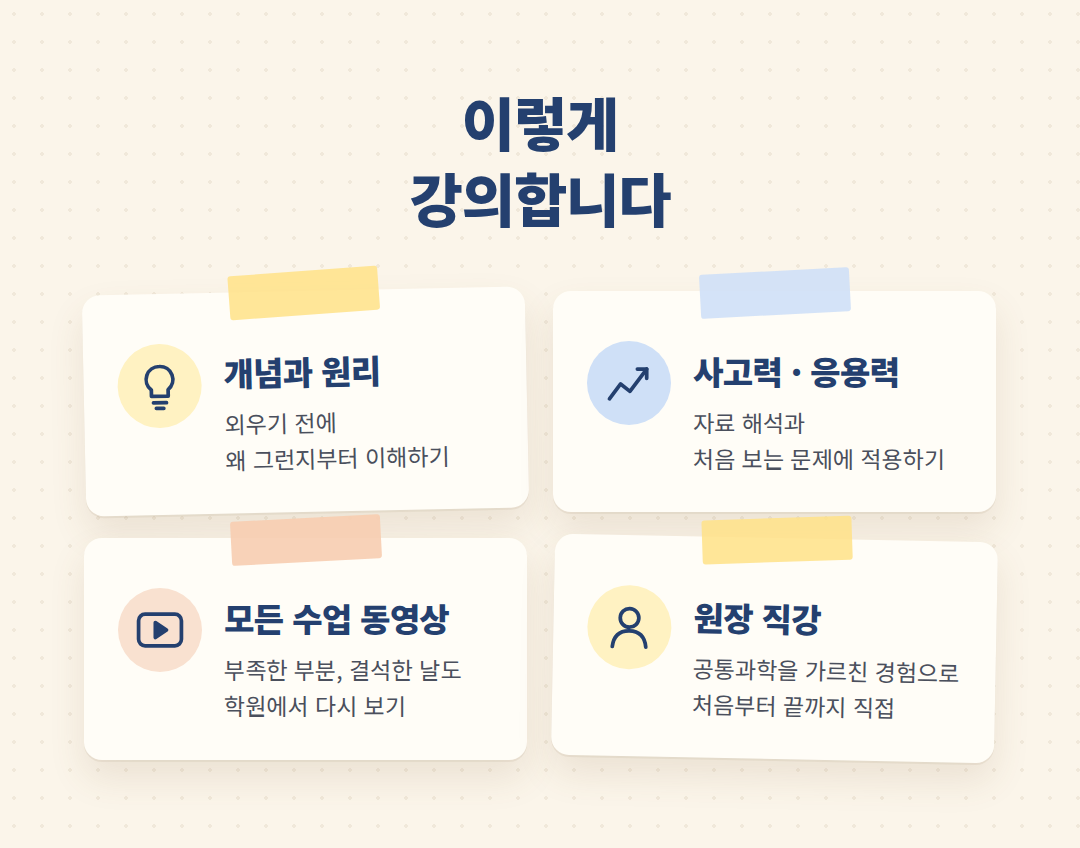
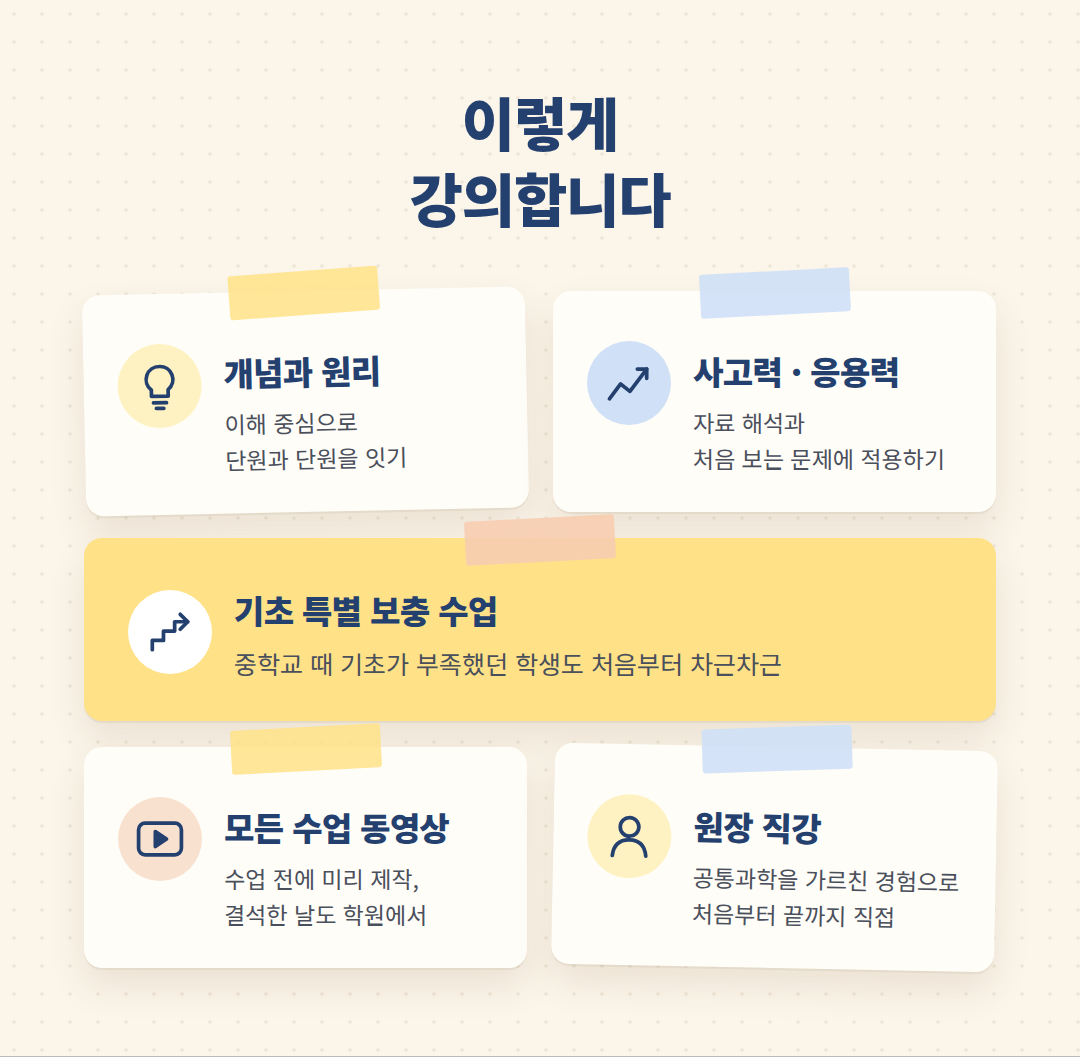
marketing: blog-16 정렬을 섞고 여백을 늘림, 특별 보충 수업 추가
- 인사·핵심 결론·무료 수강·오시는 길·맺음말은 가운데, 설명 문단은 왼쪽
- 소제목 선을 글 폭만큼 길게, 선과 글·문단 사이 여백 늘림(서식 복사에 빈 줄)
- '이렇게 강의합니다'에 기초 특별 보충 수업 추가, 동영상은 '수업 전에 제작'
- 그림 05 다섯 칸으로 다시 그림

Claude-Session: https://claude.ai/code/session_01WC7EVNFFJZDdwaC3HYBAmj

diff --git a/parkchan-science/marketing/blog-16/kit.html b/parkchan-science/marketing/blog-16/kit.html
@@ -24,16 +24,17 @@ textarea{width:100%;box-sizing:border-box;min-height:160px;border:1px solid var(
 .post{text-align:left}
 .post .em{color:var(--em)}
 .post b{color:var(--ink)}.post .em{color:var(--em)}
-.tw{overflow-x:auto;margin:0 0 22px}.post table{border-collapse:collapse;width:100%;font-size:14.5px;line-height:1.6;color:var(--body)}
+.tw{overflow-x:auto;margin:0 0 30px}.post table{border-collapse:collapse;width:100%;font-size:14.5px;line-height:1.6;color:var(--body)}
 .post th,.post td{border:1px solid var(--line);padding:8px 10px;text-align:left;vertical-align:top}
 .post th{background:var(--soft);color:var(--ink);font-weight:700}.post td:first-child{font-weight:700;color:var(--ink);white-space:nowrap}
 .post tr.now td{background:var(--soft);font-weight:700}.post tr.now td:first-child{color:var(--em)}
 #rich{position:absolute;left:-9999px;top:0;width:600px;background:#fff;color:#333}
-.post p{font-size:16px;color:var(--body);margin:0 0 22px}
-.post blockquote{text-align:center;margin:32px auto 18px;max-width:420px;font-family:'Noto Serif KR',serif;font-size:19px;font-weight:700;color:var(--navy);border-top:1px solid var(--gold);border-bottom:1px solid var(--gold);padding:14px 8px}
+.post p{font-size:16px;line-height:1.9;color:var(--body);margin:0 0 28px}
+.post p.c{text-align:center}
+.post blockquote{text-align:center;margin:52px 0 34px;font-family:'Noto Serif KR',serif;font-size:19px;font-weight:700;color:var(--navy);border-top:1px solid var(--gold);border-bottom:1px solid var(--gold);padding:20px 8px}
 .post figure{margin:0 0 26px}.post img{width:100%;max-width:100%;height:auto;display:block}
 .post figcaption{font-size:12px;color:var(--muted);margin-top:6px}
-.post .fine{font-size:10px;line-height:1.6;color:var(--faint);margin:30px 0 0;padding-top:14px;border-top:1px solid var(--line);font-variant-numeric:tabular-nums}
+.post .fine{text-align:center;font-size:10px;line-height:1.6;color:var(--faint);margin:30px 0 0;padding-top:14px;border-top:1px solid var(--line);font-variant-numeric:tabular-nums}
 .place{font-size:13px;color:var(--muted);border:1px dashed var(--line);padding:16px;margin:0 0 22px}
 mark{background:var(--soft);color:var(--ink);outline:1px solid var(--gold);border-radius:2px;padding:0 3px}
 .nw{white-space:nowrap}
@@ -46,10 +47,13 @@ mark{background:var(--soft);color:var(--ink);outline:1px solid var(--gold);borde
 <details style="margin-top:10px"><summary style="font-size:14px;color:var(--muted);cursor:pointer">글자만 복사 (서식 없음)</summary><textarea id="bodyTxt" readonly style="margin-top:8px">안녕하십니까.
 대구 월성동 박찬 통합과학 학원입니다.
 
-현재 중학교 3학년 자녀를 두신 학부모님께 인사드립니다.
+현재 중학교 3학년 자녀를 두신
+학부모님께 인사드립니다.
 
-내년 봄 고등학교에 올라가면, 학생들은 처음으로 &#x27;통합과학&#x27;을 만나게 됩니다.
-그 첫걸음을 차근차근 준비하는 고1 예비반을 안내해 드립니다.
+내년 봄 고등학교에 올라가면
+학생들은 처음으로 &#x27;통합과학&#x27;을 만나게 됩니다.
+그 첫걸음을 차근차근 준비하는
+고1 예비반을 안내해 드립니다.
 
 【사진 1 · 01_greeting.png】
 
@@ -61,8 +65,10 @@ mark{background:var(--soft);color:var(--ink);outline:1px solid var(--gold);borde
 대상: 고1 예비 (현 중3)
 기간: 2027년 2월 28일까지
 
-고등학교 통합과학은 통합과학 1과 통합과학 2, 두 권입니다.
-이 두 권을 3월 입학 전까지 확실히 지도하겠습니다.
+고등학교 통합과학은
+통합과학 1과 통합과학 2, 두 권입니다.
+이 두 권을 3월 입학 전까지
+확실히 지도하겠습니다.
 
 【사진 2 · 02_period.png】
 
@@ -73,45 +79,55 @@ mark{background:var(--soft);color:var(--ink);outline:1px solid var(--gold);borde
 주 1회 수업에도 나름의 장점이 있을 것입니다.
 다만 저는 주 2회 수업으로 조금 더 여유로운 시간 속에서 다양한 지식을 전하고 문제 풀이를 하며, 더 큰 학습 효과를 거두고자 합니다.
 
-그래서 시간의 여유가 있는 고1 예비반 때만 일주일에 두 번 수업합니다.
-고등학교에 올라가면 고1 내신반과 고3 수능반은 일주일에 한 번밖에 하지 못합니다.
+그래서 시간의 여유가 있는
+고1 예비반 때만
+일주일에 두 번 수업합니다.
+
+고등학교에 올라가면
+고1 내신반과 고3 수능반은
+일주일에 한 번밖에 하지 못합니다.
 
 【사진 3 · 03_twice.png】
 
 【소제목 · 인용구】 고등학교 과학, 이렇게 바뀝니다
 
-2022 개정 교육과정에 따라 고1 학생은 모두 통합과학을 배웁니다.
-고교 내신은 2025년 고1부터 5등급제로 바뀌었습니다.
-그리고 2028학년도 수능부터 과학탐구는 통합과학 한 과목입니다.
-지금 중3 학생들이 치를 수능도 현재 발표 기준으로 같은 체제입니다.
+· 교육과정 — 2022 개정에 따라 고1 학생은 모두 통합과학을 배웁니다.
+· 내신 — 2025년 고1부터 5등급제로 바뀌었습니다.
+· 수능 — 2028학년도부터 과학탐구는 통합과학 한 과목입니다. 지금 중3 학생들이 치를 수능도 현재 발표 기준으로 같은 체제입니다.
 
-고1 첫 내신이 고등학교 3년의 출발점입니다.
+고1 첫 내신이
+고등학교 3년의 출발점입니다.
 
 【사진 4 · 04_change.png】
 
 【소제목 · 인용구】 이렇게 강의합니다
 
 ① 개념과 원리 위주의 이해 중심 강의
-외우기 전에 &#x27;왜 그런지&#x27;부터 설명합니다.
 낯선 과학 용어도 뜻을 풀어, 단원과 단원이 자연스럽게 이어지도록 가르칩니다.
 
 ② 사고력 · 응용력 향상을 돕는 문제 풀이
-개념을 배운 뒤에는 자료를 해석하고, 처음 보는 상황에 개념을 적용하는 문제를 함께 풉니다.
-고1 내신을 넘어 고3 수능까지 이어지는 생각하는 힘을 기릅니다.
+자료를 해석하고, 처음 보는 상황에 개념을 적용하는 문제를 함께 풉니다.
+고3 수능까지 이어지는 생각하는 힘을 기릅니다.
 
-③ 모든 수업은 동영상으로
-모든 수업은 동영상으로 제작되어 있습니다.
+③ 기초가 부족한 학생을 위한 특별 보충 수업
+중학교 때 과학 기초가 부족했거나 성적이 아쉬웠던 학생을 위해 특별 보충 수업을 준비해 두었습니다.
+처음부터 차근차근 따라올 수 있도록 돕겠습니다.
+
+④ 모든 수업은 동영상으로
+모든 수업은 수업 전에 동영상으로 제작되어 있습니다.
 강의 후 부족하다고 느낀 부분이나 결석한 날의 수업도 학원에서 다시 보며 충분히 이해할 수 있습니다.
 
-④ 원장 직강
+⑤ 원장 직강
 통합과학의 전신인 공통과학을 가르쳤던 경험과 오랜 입시 지도의 경험으로, 처음부터 끝까지 제가 직접 가르치고 상담합니다.
 
 【사진 5 · 05_class.png】
 
 【소제목 · 인용구】 하나로 이어지는 네 단계 과정
 
-박찬 통합과학 학원의 반은 따로 떨어져 있지 않습니다.
-기초 → 고등학교 내신 → 사고력·응용력 → 고3 수능까지, 하나의 흐름으로 이어집니다.
+박찬 통합과학 학원의 반은
+따로 떨어져 있지 않습니다.
+기초 → 내신 → 사고력·응용력 → 수능
+하나의 흐름으로 이어집니다.
 
 · 중등부반
   현 중2 (내년 중3) · 2027년 1월 개강
@@ -132,8 +148,10 @@ mark{background:var(--soft);color:var(--ink);outline:1px solid var(--gold);borde
 
 【소제목 · 인용구】 일주일 무료 수강
 
-먼저 일주일 들어 보시고 등록을 결정하셔도 됩니다.
-수업이 아이에게 맞는지 직접 확인해 보십시오.
+먼저 일주일 들어 보시고
+등록을 결정하셔도 됩니다.
+수업이 아이에게 맞는지
+직접 확인해 보십시오.
 
 ① 상담 전화 또는 내원
 ② 수강 예약
@@ -144,13 +162,16 @@ mark{background:var(--soft);color:var(--ink);outline:1px solid var(--gold);borde
 
 【소제목 · 인용구】 오시는 길
 
-대구 달서구 조암로 25, 그루빌딩 501호
-(월성 CGV 옆)
+대구 달서구 조암로 25
+그루빌딩 501호 (월성 CGV 옆)
+
 상담 문의 053-213-3577
 
 【장소 · 네이버 지도 주소 등록이 끝나면 넣기 — 지금은 이 줄만 지우기】
 
-처음 만나는 통합과학, 아이가 자신 있게 시작할 수 있도록 정성껏 준비하겠습니다.
+처음 만나는 통합과학,
+아이가 자신 있게 시작할 수 있도록
+정성껏 준비하겠습니다.
 편하게 전화 주십시오.
 
 감사합니다.
@@ -160,93 +181,126 @@ mark{background:var(--soft);color:var(--ink);outline:1px solid var(--gold);borde
 【작은 글씨】남교입 제2019-115호 · 교습비(월) / 총 교습시간
 【작은 글씨】중등부 21만 원 / 1,042분 · 26만 7,000원 / 1,303분
 【작은 글씨】고등부 22만 원 / 912분 · 31만 7,000원 / 1,303분</textarea><button class="cp big" data-copy="bodyTxt">글자만 복사</button></details>
-<div id="rich" aria-hidden="true"><p style="margin:0 0 16px;line-height:1.8">안녕하십니까.<br>대구 월성동 박찬 통합과학 학원입니다.</p>
-<p style="margin:0 0 16px;line-height:1.8">현재 중학교 3학년 자녀를 두신 학부모님께 인사드립니다.</p>
-<p style="margin:0 0 16px;line-height:1.8">내년 봄 고등학교에 올라가면, 학생들은 처음으로 <b>&#x27;통합과학&#x27;</b>을 만나게 됩니다.<br>그 첫걸음을 차근차근 준비하는 <b style="color:#2F5FC4">고1 예비반</b>을 안내해 드립니다.</p>
-<p style="margin:0 0 16px;line-height:1.8">【사진 1 · 01_greeting.png】</p>
-<p style="margin:0 0 16px;line-height:1.8">【소제목 · 인용구】 <b>3월 입학 전, 통합과학 1·2를 확실히 지도하겠습니다</b></p>
+<div id="rich" aria-hidden="true"><p style="margin:0;line-height:1.9;text-align:center;">안녕하십니까.<br>대구 월성동 박찬 통합과학 학원입니다.</p>
+<p><br></p>
+<p style="margin:0;line-height:1.9;text-align:center;">현재 중학교 3학년 자녀를 두신<br>학부모님께 인사드립니다.</p>
+<p><br></p>
+<p style="margin:0;line-height:1.9;text-align:center;">내년 봄 고등학교에 올라가면<br>학생들은 처음으로 <b>&#x27;통합과학&#x27;</b>을 만나게 됩니다.<br>그 첫걸음을 차근차근 준비하는<br><b style="color:#2F5FC4">고1 예비반</b>을 안내해 드립니다.</p>
+<p><br></p>
+<p style="margin:0;line-height:1.9;text-align:center;">【사진 1 · 01_greeting.png】</p><p><br></p>
+<p><br></p><p style="margin:0;line-height:1.9;text-align:center;">【소제목 · 인용구】 <b>3월 입학 전, 통합과학 1·2를 확실히 지도하겠습니다</b></p><p><br></p>
 <table style="border-collapse:collapse;width:100%;margin:0 0 18px;font-size:15px;line-height:1.6"><tr><td style="border:1px solid #D9CFBD;padding:8px 10px;background:#FFFFFF;vertical-align:top;font-weight:700;">화금반</td><td style="border:1px solid #D9CFBD;padding:8px 10px;background:#FFFFFF;vertical-align:top;"><b>2026년 11월 3일(화)</b> 개강</td></tr><tr><td style="border:1px solid #D9CFBD;padding:8px 10px;background:#FFFFFF;vertical-align:top;font-weight:700;">수토반</td><td style="border:1px solid #D9CFBD;padding:8px 10px;background:#FFFFFF;vertical-align:top;"><b>2026년 11월 4일(수)</b> 개강</td></tr><tr><td style="border:1px solid #D9CFBD;padding:8px 10px;background:#FFFFFF;vertical-align:top;font-weight:700;">수업 시작</td><td style="border:1px solid #D9CFBD;padding:8px 10px;background:#FFFFFF;vertical-align:top;">오후 5시 30분 (주 2회)</td></tr><tr><td style="border:1px solid #D9CFBD;padding:8px 10px;background:#FFFFFF;vertical-align:top;font-weight:700;">대상</td><td style="border:1px solid #D9CFBD;padding:8px 10px;background:#FFFFFF;vertical-align:top;">고1 예비 (현 중3)</td></tr><tr><td style="border:1px solid #D9CFBD;padding:8px 10px;background:#FFFFFF;vertical-align:top;font-weight:700;">기간</td><td style="border:1px solid #D9CFBD;padding:8px 10px;background:#FFFFFF;vertical-align:top;">2027년 2월 28일까지</td></tr></table>
-<p style="margin:0 0 16px;line-height:1.8">고등학교 통합과학은 <b>통합과학 1과 통합과학 2, 두 권</b>입니다.<br>이 두 권을 <b style="color:#2F5FC4">3월 입학 전까지 확실히 지도하겠습니다.</b></p>
-<p style="margin:0 0 16px;line-height:1.8">【사진 2 · 02_period.png】</p>
-<p style="margin:0 0 16px;line-height:1.8">【소제목 · 인용구】 <b>왜 예비반은 주 2회일까요</b></p>
-<p style="margin:0 0 16px;line-height:1.8">평소 강의를 해 보면, 시간의 여유가 많을수록 더 상세히 설명하고 더 많은 문제를 함께 풀 수 있었습니다.</p>
-<p style="margin:0 0 16px;line-height:1.8">주 1회 수업에도 나름의 장점이 있을 것입니다.<br>다만 저는 주 2회 수업으로 조금 더 여유로운 시간 속에서 <b>다양한 지식을 전하고 문제 풀이를 하며, 더 큰 학습 효과</b>를 거두고자 합니다.</p>
-<p style="margin:0 0 16px;line-height:1.8">그래서 시간의 여유가 있는 <b style="color:#2F5FC4">고1 예비반 때만 일주일에 두 번</b> 수업합니다.<br>고등학교에 올라가면 고1 내신반과 고3 수능반은 일주일에 한 번밖에 하지 못합니다.</p>
-<p style="margin:0 0 16px;line-height:1.8">【사진 3 · 03_twice.png】</p>
-<p style="margin:0 0 16px;line-height:1.8">【소제목 · 인용구】 <b>고등학교 과학, 이렇게 바뀝니다</b></p>
-<p style="margin:0 0 16px;line-height:1.8">2022 개정 교육과정에 따라 <b>고1 학생은 모두 통합과학</b>을 배웁니다.<br>고교 내신은 2025년 고1부터 <b>5등급제</b>로 바뀌었습니다.<br>그리고 <b>2028학년도 수능부터 과학탐구는 통합과학 한 과목</b>입니다.<br>지금 중3 학생들이 치를 수능도 현재 발표 기준으로 같은 체제입니다.</p>
-<p style="margin:0 0 16px;line-height:1.8"><b style="color:#2F5FC4">고1 첫 내신이 고등학교 3년의 출발점입니다.</b></p>
-<p style="margin:0 0 16px;line-height:1.8">【사진 4 · 04_change.png】</p>
-<p style="margin:0 0 16px;line-height:1.8">【소제목 · 인용구】 <b>이렇게 강의합니다</b></p>
-<p style="margin:0 0 16px;line-height:1.8"><b style="color:#2F5FC4">① 개념과 원리 위주의 이해 중심 강의</b><br>외우기 전에 &#x27;왜 그런지&#x27;부터 설명합니다.<br>낯선 과학 용어도 뜻을 풀어, 단원과 단원이 자연스럽게 이어지도록 가르칩니다.</p>
-<p style="margin:0 0 16px;line-height:1.8"><b style="color:#2F5FC4">② 사고력 · 응용력 향상을 돕는 문제 풀이</b><br>개념을 배운 뒤에는 자료를 해석하고, 처음 보는 상황에 개념을 적용하는 문제를 함께 풉니다.<br>고1 내신을 넘어 <b>고3 수능까지 이어지는 생각하는 힘</b>을 기릅니다.</p>
-<p style="margin:0 0 16px;line-height:1.8"><b style="color:#2F5FC4">③ 모든 수업은 동영상으로</b><br>모든 수업은 동영상으로 제작되어 있습니다.<br>강의 후 부족하다고 느낀 부분이나 결석한 날의 수업도 <b>학원에서 다시 보며</b> 충분히 이해할 수 있습니다.</p>
-<p style="margin:0 0 16px;line-height:1.8"><b style="color:#2F5FC4">④ 원장 직강</b><br>통합과학의 전신인 <b>공통과학을 가르쳤던 경험</b>과 오랜 입시 지도의 경험으로, 처음부터 끝까지 제가 직접 가르치고 상담합니다.</p>
-<p style="margin:0 0 16px;line-height:1.8">【사진 5 · 05_class.png】</p>
-<p style="margin:0 0 16px;line-height:1.8">【소제목 · 인용구】 <b>하나로 이어지는 네 단계 과정</b></p>
-<p style="margin:0 0 16px;line-height:1.8">박찬 통합과학 학원의 반은 따로 떨어져 있지 않습니다.<br><b>기초 → 고등학교 내신 → 사고력·응용력 → 고3 수능</b>까지, 하나의 흐름으로 이어집니다.</p>
+<p><br></p>
+<p style="margin:0;line-height:1.9;text-align:center;">고등학교 통합과학은<br><b>통합과학 1과 통합과학 2, 두 권</b>입니다.<br><b style="color:#2F5FC4">이 두 권을 3월 입학 전까지</b><br><b style="color:#2F5FC4">확실히 지도하겠습니다.</b></p>
+<p><br></p>
+<p style="margin:0;line-height:1.9;text-align:center;">【사진 2 · 02_period.png】</p><p><br></p>
+<p><br></p><p style="margin:0;line-height:1.9;text-align:center;">【소제목 · 인용구】 <b>왜 예비반은 주 2회일까요</b></p><p><br></p>
+<p style="margin:0;line-height:1.9;">평소 강의를 해 보면, 시간의 여유가 많을수록 더 상세히 설명하고 더 많은 문제를 함께 풀 수 있었습니다.</p>
+<p><br></p>
+<p style="margin:0;line-height:1.9;">주 1회 수업에도 나름의 장점이 있을 것입니다.<br>다만 저는 주 2회 수업으로 조금 더 여유로운 시간 속에서 <b>다양한 지식을 전하고 문제 풀이를 하며, 더 큰 학습 효과</b>를 거두고자 합니다.</p>
+<p><br></p>
+<p style="margin:0;line-height:1.9;text-align:center;">그래서 시간의 여유가 있는<br><b style="color:#2F5FC4">고1 예비반 때만</b><br><b style="color:#2F5FC4">일주일에 두 번</b> 수업합니다.</p>
+<p><br></p>
+<p style="margin:0;line-height:1.9;text-align:center;">고등학교에 올라가면<br>고1 내신반과 고3 수능반은<br>일주일에 한 번밖에 하지 못합니다.</p>
+<p><br></p>
+<p style="margin:0;line-height:1.9;text-align:center;">【사진 3 · 03_twice.png】</p><p><br></p>
+<p><br></p><p style="margin:0;line-height:1.9;text-align:center;">【소제목 · 인용구】 <b>고등학교 과학, 이렇게 바뀝니다</b></p><p><br></p>
+<p style="margin:0;line-height:1.9;">· 교육과정 — 2022 개정에 따라 <b>고1 학생은 모두 통합과학</b>을 배웁니다.<br>· 내신 — 2025년 고1부터 <b>5등급제</b>로 바뀌었습니다.<br>· 수능 — <b>2028학년도부터 과학탐구는 통합과학 한 과목</b>입니다. 지금 중3 학생들이 치를 수능도 현재 발표 기준으로 같은 체제입니다.</p>
+<p><br></p>
+<p style="margin:0;line-height:1.9;text-align:center;"><b style="color:#2F5FC4">고1 첫 내신이</b><br><b style="color:#2F5FC4">고등학교 3년의 출발점입니다.</b></p>
+<p><br></p>
+<p style="margin:0;line-height:1.9;text-align:center;">【사진 4 · 04_change.png】</p><p><br></p>
+<p><br></p><p style="margin:0;line-height:1.9;text-align:center;">【소제목 · 인용구】 <b>이렇게 강의합니다</b></p><p><br></p>
+<p style="margin:0;line-height:1.9;"><b style="color:#2F5FC4">① 개념과 원리 위주의 이해 중심 강의</b><br>낯선 과학 용어도 뜻을 풀어, 단원과 단원이 자연스럽게 이어지도록 가르칩니다.</p>
+<p><br></p>
+<p style="margin:0;line-height:1.9;"><b style="color:#2F5FC4">② 사고력 · 응용력 향상을 돕는 문제 풀이</b><br>자료를 해석하고, 처음 보는 상황에 개념을 적용하는 문제를 함께 풉니다.<br><b>고3 수능까지 이어지는 생각하는 힘</b>을 기릅니다.</p>
+<p><br></p>
+<p style="margin:0;line-height:1.9;"><b style="color:#2F5FC4">③ 기초가 부족한 학생을 위한 특별 보충 수업</b><br>중학교 때 과학 기초가 부족했거나 성적이 아쉬웠던 학생을 위해 <b>특별 보충 수업</b>을 준비해 두었습니다.<br>처음부터 차근차근 따라올 수 있도록 돕겠습니다.</p>
+<p><br></p>
+<p style="margin:0;line-height:1.9;"><b style="color:#2F5FC4">④ 모든 수업은 동영상으로</b><br>모든 수업은 수업 전에 동영상으로 제작되어 있습니다.<br>강의 후 부족하다고 느낀 부분이나 결석한 날의 수업도 <b>학원에서 다시 보며</b> 충분히 이해할 수 있습니다.</p>
+<p><br></p>
+<p style="margin:0;line-height:1.9;"><b style="color:#2F5FC4">⑤ 원장 직강</b><br>통합과학의 전신인 <b>공통과학을 가르쳤던 경험</b>과 오랜 입시 지도의 경험으로, 처음부터 끝까지 제가 직접 가르치고 상담합니다.</p>
+<p><br></p>
+<p style="margin:0;line-height:1.9;text-align:center;">【사진 5 · 05_class.png】</p><p><br></p>
+<p><br></p><p style="margin:0;line-height:1.9;text-align:center;">【소제목 · 인용구】 <b>하나로 이어지는 네 단계 과정</b></p><p><br></p>
+<p style="margin:0;line-height:1.9;text-align:center;">박찬 통합과학 학원의 반은<br>따로 떨어져 있지 않습니다.<br><b>기초 → 내신 → 사고력·응용력 → 수능</b><br>하나의 흐름으로 이어집니다.</p>
+<p><br></p>
 <table style="border-collapse:collapse;width:100%;margin:0 0 18px;font-size:15px;line-height:1.6"><tr><td style="border:1px solid #D9CFBD;padding:8px 10px;background:#FFFFFF;vertical-align:top;font-weight:700;">중등부반</td><td style="border:1px solid #D9CFBD;padding:8px 10px;background:#FFFFFF;vertical-align:top;">현 중2 (내년 중3) · 2027년 1월 개강<br>고등학교 과학으로 이어지는 기초</td></tr><tr><td style="border:1px solid #D9CFBD;padding:8px 10px;background:#FFF2C2;vertical-align:top;font-weight:700;color:#2F5FC4;">고1 예비반<br>지금 모집</td><td style="border:1px solid #D9CFBD;padding:8px 10px;background:#FFF2C2;vertical-align:top;font-weight:700;">현 중3 · 11월 3일(화)·4일(수) 개강 · 주 2회<br>3월 입학 전, 통합과학 1·2를 확실히</td></tr><tr><td style="border:1px solid #D9CFBD;padding:8px 10px;background:#FFFFFF;vertical-align:top;font-weight:700;">고1 내신반</td><td style="border:1px solid #D9CFBD;padding:8px 10px;background:#FFFFFF;vertical-align:top;">2027년 고1 · 3월 ~ 12월 · 주 1회<br>학교별 교과서(5개 출판사)에 맞춘 내신 대비</td></tr><tr><td style="border:1px solid #D9CFBD;padding:8px 10px;background:#FFFFFF;vertical-align:top;font-weight:700;">고3 수능반</td><td style="border:1px solid #D9CFBD;padding:8px 10px;background:#FFFFFF;vertical-align:top;">현 고2 (내년 고3) · 2027년 1월 개강 · 주 1회<br>첫 통합과학 수능(2028학년도) 대비</td></tr></table>
-<p style="margin:0 0 16px;line-height:1.8">중등부반과 고3 수능반은 개강에 맞춰 다시 자세히 안내해 드리겠습니다.</p>
-<p style="margin:0 0 16px;line-height:1.8">【사진 6 · 06_roadmap.png】</p>
-<p style="margin:0 0 16px;line-height:1.8">【소제목 · 인용구】 <b>일주일 무료 수강</b></p>
-<p style="margin:0 0 16px;line-height:1.8">먼저 <b>일주일 들어 보시고</b> 등록을 결정하셔도 됩니다.<br>수업이 아이에게 맞는지 직접 확인해 보십시오.</p>
-<p style="margin:0 0 16px;line-height:1.8">① 상담 전화 또는 내원<br>② 수강 예약<br><b style="color:#2F5FC4">③ 일주일 무료 수강</b><br>④ 등록 결정</p>
-<p style="margin:0 0 16px;line-height:1.8">【사진 7 · 07_free.png】</p>
-<p style="margin:0 0 16px;line-height:1.8">【소제목 · 인용구】 <b>오시는 길</b></p>
-<p style="margin:0 0 16px;line-height:1.8">대구 달서구 조암로 25, <b>그루빌딩 501호</b><br>(월성 CGV 옆)<br>상담 문의 <b>053-213-3577</b></p>
-<p style="margin:0 0 16px;line-height:1.8">【장소 · 네이버 지도 주소 등록이 끝나면 넣기 — 지금은 이 줄만 지우기】</p>
-<p style="margin:0 0 16px;line-height:1.8">처음 만나는 통합과학, 아이가 자신 있게 시작할 수 있도록 정성껏 준비하겠습니다.<br>편하게 전화 주십시오.</p>
-<p style="margin:0 0 16px;line-height:1.8">감사합니다.</p>
-<p style="margin:0 0 16px;line-height:1.8">박찬 드림</p>
-<p style="margin:0;font-size:11px;line-height:1.6;color:#B4B4B4">남교입 제2019-115호 · 교습비(월) / 총 교습시간<br>중등부 21만 원 / 1,042분 · 26만 7,000원 / 1,303분<br>고등부 22만 원 / 912분 · 31만 7,000원 / 1,303분</p></div></section>
+<p><br></p>
+<p style="margin:0;line-height:1.9;">중등부반과 고3 수능반은 개강에 맞춰 다시 자세히 안내해 드리겠습니다.</p>
+<p><br></p>
+<p style="margin:0;line-height:1.9;text-align:center;">【사진 6 · 06_roadmap.png】</p><p><br></p>
+<p><br></p><p style="margin:0;line-height:1.9;text-align:center;">【소제목 · 인용구】 <b>일주일 무료 수강</b></p><p><br></p>
+<p style="margin:0;line-height:1.9;text-align:center;">먼저 <b>일주일 들어 보시고</b><br>등록을 결정하셔도 됩니다.<br>수업이 아이에게 맞는지<br>직접 확인해 보십시오.</p>
+<p><br></p>
+<p style="margin:0;line-height:1.9;text-align:center;">① 상담 전화 또는 내원<br>② 수강 예약<br><b style="color:#2F5FC4">③ 일주일 무료 수강</b><br>④ 등록 결정</p>
+<p><br></p>
+<p style="margin:0;line-height:1.9;text-align:center;">【사진 7 · 07_free.png】</p><p><br></p>
+<p><br></p><p style="margin:0;line-height:1.9;text-align:center;">【소제목 · 인용구】 <b>오시는 길</b></p><p><br></p>
+<p style="margin:0;line-height:1.9;text-align:center;">대구 달서구 조암로 25<br><b>그루빌딩 501호</b> (월성 CGV 옆)</p>
+<p><br></p>
+<p style="margin:0;line-height:1.9;text-align:center;">상담 문의 <b>053-213-3577</b></p>
+<p><br></p>
+<p style="margin:0;line-height:1.9;">【장소 · 네이버 지도 주소 등록이 끝나면 넣기 — 지금은 이 줄만 지우기】</p>
+<p><br></p>
+<p style="margin:0;line-height:1.9;text-align:center;">처음 만나는 통합과학,<br>아이가 자신 있게 시작할 수 있도록<br>정성껏 준비하겠습니다.<br>편하게 전화 주십시오.</p>
+<p><br></p>
+<p style="margin:0;line-height:1.9;text-align:center;">감사합니다.</p>
+<p><br></p>
+<p style="margin:0;line-height:1.9;text-align:center;">박찬 드림</p>
+<p><br></p>
+<p style="margin:0;font-size:11px;line-height:1.6;color:#B4B4B4;text-align:center">남교입 제2019-115호 · 교습비(월) / 총 교습시간<br>중등부 21만 원 / 1,042분 · 26만 7,000원 / 1,303분<br>고등부 22만 원 / 912분 · 31만 7,000원 / 1,303분</p></div></section>
 <section class="box"><h2>③ 태그 — 하나씩 입력 후 Enter</h2><div class="tags"><span>월성동과학학원</span><span>대구과학학원</span><span>달서구과학학원</span><span>월성동학원</span><span>월성동통합과학</span><span>대구통합과학학원</span><span>통합과학학원</span><span>고1예비반</span><span>예비고1</span><span>중3과학</span><span>고1통합과학</span><span>통합과학</span><span>과학학원</span><span>월배과학학원</span><span>진천동과학학원</span><span>상인동과학학원</span><span>중등부과학</span><span>고3수능반</span><span>박찬통합과학학원</span></div><button class="cp big" data-copy="tagTxt">태그 복사(띄어쓰기로 구분)</button><textarea id="tagTxt" readonly style="display:none">월성동과학학원 대구과학학원 달서구과학학원 월성동학원 월성동통합과학 대구통합과학학원 통합과학학원 고1예비반 예비고1 중3과학 고1통합과학 통합과학 과학학원 월배과학학원 진천동과학학원 상인동과학학원 중등부과학 고3수능반 박찬통합과학학원</textarea></section>
 <section class="box"><h2>④ 네이버 글쓰기에서</h2><ol class="how">
 <li><b>제목</b> 칸에 ①을 붙여 넣기</li>
-<li><b>본문</b>에 ②를 붙여 넣기 — 정렬은 <b>왼쪽(기본) 그대로</b>, 소제목 인용구만 가운데</li>
+<li><b>본문</b>에 ②를 붙여 넣기 — 가운데 정렬은 서식 복사에 들어 있습니다. 빠지면 미리보기에서 <b>가운데</b>인 문단만 골라 가운데 정렬</li>
 <li><b>【사진 N】</b> 줄을 지우고 같은 번호 사진 올리기 · 사진 1에 <b>대표</b> 표시</li>
-<li><b>【소제목 · 인용구】</b> 표시 글자만 지우고, 남은 한 줄을 <b>인용구</b>로 감싸기</li>
+<li><b>【소제목 · 인용구】</b> 표시 글자만 지우고, 남은 한 줄을 <b>인용구</b>로 감싸기 — 위아래 선이 글 폭만큼 길게 그어지는 모양으로 · 인용구 위아래에 빈 줄 하나씩</li>
 <li><b>【장소】</b> 줄은 지금은 지우기만 — 네이버 지도 주소 등록이 끝나면 <b>장소</b> 버튼으로 넣기</li>
 <li>끝의 <b>【작은 글씨】</b> 표시 글자만 지우기 — 세 줄은 글자 크기 <b>11</b>(가장 작게) · <b>연한 회색</b>인지 확인</li>
 <li>맨 아래 <b>태그</b> 칸에 ③을 하나씩 입력</li></ol>
 <p class="note">사진은 가로 1080px PNG입니다. 위 순서는 흔히 쓰는 방식이며 네이버 공식 규격 문서는 아닙니다.</p></section>
-<section class="box"><h2>미리보기</h2><article class="post"><p>안녕하십니까.<br>대구 월성동 박찬 통합과학 학원입니다.</p>
-<p>현재 중학교 3학년 자녀를 두신 학부모님께 인사드립니다.</p>
-<p>내년 봄 고등학교에 올라가면, 학생들은 처음으로 <b>&#x27;통합과학&#x27;</b>을 만나게 됩니다.<br>그 첫걸음을 차근차근 준비하는 <b class="em">고1 예비반</b>을 안내해 드립니다.</p>
+<section class="box"><h2>미리보기</h2><article class="post"><p class="c">안녕하십니까.<br>대구 월성동 박찬 통합과학 학원입니다.</p>
+<p class="c">현재 중학교 3학년 자녀를 두신<br>학부모님께 인사드립니다.</p>
+<p class="c">내년 봄 고등학교에 올라가면<br>학생들은 처음으로 <b>&#x27;통합과학&#x27;</b>을 만나게 됩니다.<br>그 첫걸음을 차근차근 준비하는<br><b class="em">고1 예비반</b>을 안내해 드립니다.</p>
 <figure><img src="images/01_greeting.png" alt="현 중3 학부모님께 — 고1 예비반, 3월 입학 전 통합과학 1·2를 확실히, 화금반 11월 3일(화)·수토반 11월 4일(수) 개강"><figcaption>사진 1 · 01_greeting.png</figcaption></figure>
 <blockquote>3월 입학 전, 통합과학 1·2를 확실히 지도하겠습니다</blockquote>
 <div class="tw"><table><tr><td>화금반</td><td><b>2026년 11월 3일(화)</b> 개강</td></tr><tr><td>수토반</td><td><b>2026년 11월 4일(수)</b> 개강</td></tr><tr><td>수업 시작</td><td>오후 5시 30분 (주 2회)</td></tr><tr><td>대상</td><td>고1 예비 (현 중3)</td></tr><tr><td>기간</td><td>2027년 2월 28일까지</td></tr></table></div>
-<p>고등학교 통합과학은 <b>통합과학 1과 통합과학 2, 두 권</b>입니다.<br>이 두 권을 <b class="em">3월 입학 전까지 확실히 지도하겠습니다.</b></p>
+<p class="c">고등학교 통합과학은<br><b>통합과학 1과 통합과학 2, 두 권</b>입니다.<br><b class="em">이 두 권을 3월 입학 전까지</b><br><b class="em">확실히 지도하겠습니다.</b></p>
 <figure><img src="images/02_period.png" alt="3월 입학 전, 통합과학 1·2를 확실히 — 11~12월 통합과학 1, 1~2월 통합과학 2"><figcaption>사진 2 · 02_period.png</figcaption></figure>
 <blockquote>왜 예비반은 주 2회일까요</blockquote>
 <p>평소 강의를 해 보면, 시간의 여유가 많을수록 더 상세히 설명하고 더 많은 문제를 함께 풀 수 있었습니다.</p>
 <p>주 1회 수업에도 나름의 장점이 있을 것입니다.<br>다만 저는 주 2회 수업으로 조금 더 여유로운 시간 속에서 <b>다양한 지식을 전하고 문제 풀이를 하며, 더 큰 학습 효과</b>를 거두고자 합니다.</p>
-<p>그래서 시간의 여유가 있는 <b class="em">고1 예비반 때만 일주일에 두 번</b> 수업합니다.<br>고등학교에 올라가면 고1 내신반과 고3 수능반은 일주일에 한 번밖에 하지 못합니다.</p>
+<p class="c">그래서 시간의 여유가 있는<br><b class="em">고1 예비반 때만</b><br><b class="em">일주일에 두 번</b> 수업합니다.</p>
+<p class="c">고등학교에 올라가면<br>고1 내신반과 고3 수능반은<br>일주일에 한 번밖에 하지 못합니다.</p>
 <figure><img src="images/03_twice.png" alt="왜 예비반은 주 2회일까요 — 세 가지 이유"><figcaption>사진 3 · 03_twice.png</figcaption></figure>
 <blockquote>고등학교 과학, 이렇게 바뀝니다</blockquote>
-<p>2022 개정 교육과정에 따라 <b>고1 학생은 모두 통합과학</b>을 배웁니다.<br>고교 내신은 2025년 고1부터 <b>5등급제</b>로 바뀌었습니다.<br>그리고 <b>2028학년도 수능부터 과학탐구는 통합과학 한 과목</b>입니다.<br>지금 중3 학생들이 치를 수능도 현재 발표 기준으로 같은 체제입니다.</p>
-<p><b class="em">고1 첫 내신이 고등학교 3년의 출발점입니다.</b></p>
+<p>· 교육과정 — 2022 개정에 따라 <b>고1 학생은 모두 통합과학</b>을 배웁니다.<br>· 내신 — 2025년 고1부터 <b>5등급제</b>로 바뀌었습니다.<br>· 수능 — <b>2028학년도부터 과학탐구는 통합과학 한 과목</b>입니다. 지금 중3 학생들이 치를 수능도 현재 발표 기준으로 같은 체제입니다.</p>
+<p class="c"><b class="em">고1 첫 내신이</b><br><b class="em">고등학교 3년의 출발점입니다.</b></p>
 <figure><img src="images/04_change.png" alt="고등학교 과학, 이렇게 바뀝니다"><figcaption>사진 4 · 04_change.png</figcaption></figure>
 <blockquote>이렇게 강의합니다</blockquote>
-<p><b class="em">① 개념과 원리 위주의 이해 중심 강의</b><br>외우기 전에 &#x27;왜 그런지&#x27;부터 설명합니다.<br>낯선 과학 용어도 뜻을 풀어, 단원과 단원이 자연스럽게 이어지도록 가르칩니다.</p>
-<p><b class="em">② 사고력 · 응용력 향상을 돕는 문제 풀이</b><br>개념을 배운 뒤에는 자료를 해석하고, 처음 보는 상황에 개념을 적용하는 문제를 함께 풉니다.<br>고1 내신을 넘어 <b>고3 수능까지 이어지는 생각하는 힘</b>을 기릅니다.</p>
-<p><b class="em">③ 모든 수업은 동영상으로</b><br>모든 수업은 동영상으로 제작되어 있습니다.<br>강의 후 부족하다고 느낀 부분이나 결석한 날의 수업도 <b>학원에서 다시 보며</b> 충분히 이해할 수 있습니다.</p>
-<p><b class="em">④ 원장 직강</b><br>통합과학의 전신인 <b>공통과학을 가르쳤던 경험</b>과 오랜 입시 지도의 경험으로, 처음부터 끝까지 제가 직접 가르치고 상담합니다.</p>
-<figure><img src="images/05_class.png" alt="이렇게 강의합니다 — 개념과 원리 이해 · 사고력·응용력 · 모든 수업 동영상 · 원장 직강"><figcaption>사진 5 · 05_class.png</figcaption></figure>
+<p><b class="em">① 개념과 원리 위주의 이해 중심 강의</b><br>낯선 과학 용어도 뜻을 풀어, 단원과 단원이 자연스럽게 이어지도록 가르칩니다.</p>
+<p><b class="em">② 사고력 · 응용력 향상을 돕는 문제 풀이</b><br>자료를 해석하고, 처음 보는 상황에 개념을 적용하는 문제를 함께 풉니다.<br><b>고3 수능까지 이어지는 생각하는 힘</b>을 기릅니다.</p>
+<p><b class="em">③ 기초가 부족한 학생을 위한 특별 보충 수업</b><br>중학교 때 과학 기초가 부족했거나 성적이 아쉬웠던 학생을 위해 <b>특별 보충 수업</b>을 준비해 두었습니다.<br>처음부터 차근차근 따라올 수 있도록 돕겠습니다.</p>
+<p><b class="em">④ 모든 수업은 동영상으로</b><br>모든 수업은 수업 전에 동영상으로 제작되어 있습니다.<br>강의 후 부족하다고 느낀 부분이나 결석한 날의 수업도 <b>학원에서 다시 보며</b> 충분히 이해할 수 있습니다.</p>
+<p><b class="em">⑤ 원장 직강</b><br>통합과학의 전신인 <b>공통과학을 가르쳤던 경험</b>과 오랜 입시 지도의 경험으로, 처음부터 끝까지 제가 직접 가르치고 상담합니다.</p>
+<figure><img src="images/05_class.png" alt="이렇게 강의합니다 — 개념과 원리 · 사고력·응용력 · 기초 특별 보충 수업 · 모든 수업 동영상 · 원장 직강"><figcaption>사진 5 · 05_class.png</figcaption></figure>
 <blockquote>하나로 이어지는 네 단계 과정</blockquote>
-<p>박찬 통합과학 학원의 반은 따로 떨어져 있지 않습니다.<br><b>기초 → 고등학교 내신 → 사고력·응용력 → 고3 수능</b>까지, 하나의 흐름으로 이어집니다.</p>
+<p class="c">박찬 통합과학 학원의 반은<br>따로 떨어져 있지 않습니다.<br><b>기초 → 내신 → 사고력·응용력 → 수능</b><br>하나의 흐름으로 이어집니다.</p>
 <div class="tw"><table><tr><td>중등부반</td><td>현 중2 (내년 중3) · 2027년 1월 개강<br>고등학교 과학으로 이어지는 기초</td></tr><tr class="now"><td>고1 예비반<br>지금 모집</td><td>현 중3 · 11월 3일(화)·4일(수) 개강 · 주 2회<br>3월 입학 전, 통합과학 1·2를 확실히</td></tr><tr><td>고1 내신반</td><td>2027년 고1 · 3월 ~ 12월 · 주 1회<br>학교별 교과서(5개 출판사)에 맞춘 내신 대비</td></tr><tr><td>고3 수능반</td><td>현 고2 (내년 고3) · 2027년 1월 개강 · 주 1회<br>첫 통합과학 수능(2028학년도) 대비</td></tr></table></div>
 <p>중등부반과 고3 수능반은 개강에 맞춰 다시 자세히 안내해 드리겠습니다.</p>
 <figure><img src="images/06_roadmap.png" alt="하나로 이어지는 네 단계 과정"><figcaption>사진 6 · 06_roadmap.png</figcaption></figure>
 <blockquote>일주일 무료 수강</blockquote>
-<p>먼저 <b>일주일 들어 보시고</b> 등록을 결정하셔도 됩니다.<br>수업이 아이에게 맞는지 직접 확인해 보십시오.</p>
-<p>① 상담 전화 또는 내원<br>② 수강 예약<br><b class="em">③ 일주일 무료 수강</b><br>④ 등록 결정</p>
+<p class="c">먼저 <b>일주일 들어 보시고</b><br>등록을 결정하셔도 됩니다.<br>수업이 아이에게 맞는지<br>직접 확인해 보십시오.</p>
+<p class="c">① 상담 전화 또는 내원<br>② 수강 예약<br><b class="em">③ 일주일 무료 수강</b><br>④ 등록 결정</p>
 <figure><img src="images/07_free.png" alt="일주일 무료 수강 후 등록 · 대구 달서구 조암로 25 그루빌딩 501호(월성 CGV 옆) · 053-213-3577"><figcaption>사진 7 · 07_free.png</figcaption></figure>
 <blockquote>오시는 길</blockquote>
-<p>대구 달서구 조암로 25, <b>그루빌딩 501호</b><br>(월성 CGV 옆)<br>상담 문의 <b><span class="nw">053-213-3577</span></b></p>
+<p class="c">대구 달서구 조암로 25<br><b>그루빌딩 501호</b> (월성 CGV 옆)</p>
+<p class="c">상담 문의 <b><span class="nw">053-213-3577</span></b></p>
 <div class="place">지도 자리 — 네이버 지도 주소 등록이 끝나면 [장소] 버튼으로 넣습니다(지금은 비워 둠)</div>
-<p>처음 만나는 통합과학, 아이가 자신 있게 시작할 수 있도록 정성껏 준비하겠습니다.<br>편하게 전화 주십시오.</p>
-<p>감사합니다.</p>
-<p>박찬 드림</p>
+<p class="c">처음 만나는 통합과학,<br>아이가 자신 있게 시작할 수 있도록<br>정성껏 준비하겠습니다.<br>편하게 전화 주십시오.</p>
+<p class="c">감사합니다.</p>
+<p class="c">박찬 드림</p>
 <p class="fine">남교입 제2019-115호 · 교습비(월) / 총 교습시간<br>중등부 21만 원 / 1,042분 · 26만 7,000원 / 1,303분<br>고등부 22만 원 / 912분 · 31만 7,000원 / 1,303분</p></article></section>
 </div>
 <script>

diff --git a/parkchan-science/marketing/README.md b/parkchan-science/marketing/README.md
@@ -108,8 +108,8 @@
 - (blog-05 파일: `post.txt`·`titles.txt`·`tags.txt`·`kit.html`
 - (blog-04 파일: `post.txt`·`titles.txt`·`tags.txt`·`kit.html`
 - (blog-03 파일 설명: `post.txt`(본문)·`titles.txt`·`tags.txt`·`kit.html`(복사 도구)) 강좌·교습비 구분은 원장님 확인 대기
-- **글은 짧게(2026-10-10 원장님):** '첫째·둘째'처럼 무게 잡은 긴 절은 가독성을 떨어뜨린다. 강의 특징은 '이렇게 강의합니다' 한 절에 ① 개념과 원리 위주의 이해 중심 강의 ② 사고력·응용력 향상을 돕는 문제 풀이 ③ 모든 수업은 동영상으로(강의 후 부족한 부분·결석한 날도 학원에서 다시 보며 이해) ④ 원장 직강 — 항목당 2~3줄. '직접 만든 보충자료'는 이 글에선 뺌(원장님).
+- **글은 짧게(2026-10-10 원장님):** '첫째·둘째'처럼 무게 잡은 긴 절은 가독성을 떨어뜨린다. 강의 특징은 '이렇게 강의합니다' 한 절에 ① 개념과 원리 위주의 이해 중심 강의 ② 사고력·응용력 향상을 돕는 문제 풀이 ③ 기초가 부족한 학생을 위한 특별 보충 수업(중학교 때 기초·성적이 아쉬웠던 학생) ④ 모든 수업은 동영상으로 — **수업 전에** 제작, 강의 후 부족한 부분·결석한 날도 학원에서 다시 보며 이해 ⑤ 원장 직강 — 항목당 2~3줄. "외우기 전에 '왜 그런지'부터" 문장은 쓰지 않음(원장님). '직접 만든 보충자료'는 이 글에선 뺌(원장님).
 - **교습비·등록번호 표기(2026-10-10 원장님):** 본문·그림에 교습비 절과 '학원 등록 제2019-115호'를 넣지 않는다. 글 맨 아래 작은 글씨 한 줄로만 — 예: '남교입 제2019-115호 · 중등부 21만/26만 7천 원 · 고등부 22만/31만 7천 원' + 총 교습시간(원장님 사진 기준으로 채움). 학원 광고의 교습비 표시 의무 때문에 이 줄은 빠뜨리지 않는다. 원장님: '티 나지 않게' — 글 안에서 가장 작고 옅게(네이버 11 · 연한 회색).
 - 맨 아래 작은 글씨 확정 문구(blog-16): '남교입 제2019-115호 · 교습비(월) / 총 교습시간' · '중등부 21만 원 / 1,042분 · 26만 7,000원 / 1,303분' · '고등부 22만 원 / 912분 · 31만 7,000원 / 1,303분'. post.txt 에선 줄 앞에 【작은 글씨】 표시(복사 도구가 작게 보여 줌).
-- **글 배열(2026-10-10 원장님):** 가운데 정렬 + 짧은 줄 끊기는 '줄만 늘고 안 예쁘다' → **왼쪽 정렬**, 한 문장 = 한 줄, 문단 2~3문장. 소제목 인용구만 가운데. 일정·반 안내처럼 항목이 많은 곳은 **표**(폰 폭이라 2칸까지, 칸 안 줄바꿈). 지금 모집하는 반은 표에서 노란 바탕·파란 글씨로 강조.
-- **강조 표시:** post.txt 에서 `**굵게**` · `==파란 굵게==` · `【표】` 아래 `| 칸 | 칸 |`(`|*` 강조 줄, ` // ` 칸 안 줄바꿈). 복사 도구(scratchpad `mkkit21.py`)가 서식 포함 복사(굵게·색·표)와 글자만 복사를 같이 만든다. 네이버 스마트에디터에 서식이 그대로 붙는지는 **미검증** — 빠지면 미리보기를 보고 툴바로 다시 칠한다.
+- **글 배열(2026-10-10 원장님):** 가운데 정렬 + 짧은 줄 끊기는 '줄만 늘고 안 예쁘다' → **정렬을 섞는다**(2026-10-10 재지시: 전부 왼쪽도 단조롭다): 인사·핵심 결론(파란 굵은 줄)·무료 수강 단계·오시는 길·맺음말·서명·작은 글씨는 **가운데**(한 줄 18자 안팎으로 끊음), 설명 문단·강의 특징·목록은 **왼쪽**(한 문장 = 한 줄). 소제목 인용구는 위아래 선을 글 폭만큼 길게, 선과 글 사이·문단 사이 여백을 넉넉히(빈 줄). 일정·반 안내처럼 항목이 많은 곳은 **표**(폰 폭이라 2칸까지, 칸 안 줄바꿈). 지금 모집하는 반은 표에서 노란 바탕·파란 글씨로 강조.
+- **강조 표시:** post.txt 에서 `^^`(줄 앞, 가운데 정렬) · `**굵게**` · `==파란 굵게==` · `【표】` 아래 `| 칸 | 칸 |`(`|*` 강조 줄, ` // ` 칸 안 줄바꿈). 복사 도구(scratchpad `mkkit22.py` + `kit22.tpl.html`)가 서식 포함 복사(굵게·색·표)와 글자만 복사를 같이 만든다. 네이버 스마트에디터에 서식이 그대로 붙는지는 **미검증** — 빠지면 미리보기를 보고 툴바로 다시 칠한다.
